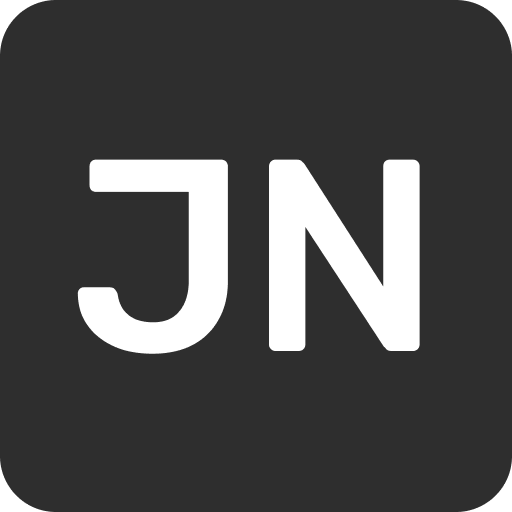
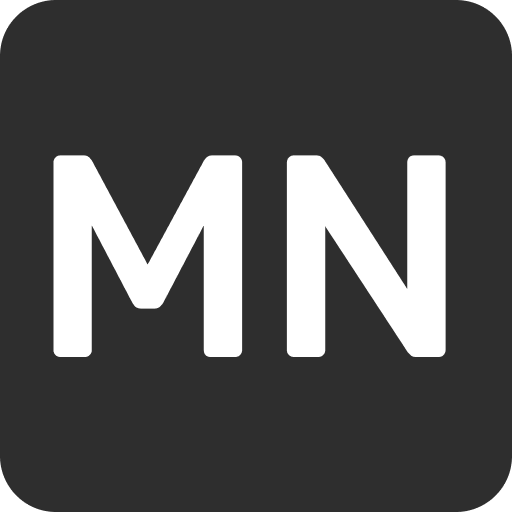
Fix: Change project name

Changed region(s): [[0.0938, 0.2812, 0.5625, 0.7188], [0.5625, 0.2812, 0.875, 0.7188]]

diff --git a/index.html b/index.html
@@ -2,7 +2,7 @@
 <html lang="en">
   <head>
     <meta charset="UTF-8" />
-    <title>Just Notes</title>
+    <title>Min Notes</title>
     <meta name="author" content="ohenrydev" />
     <meta name="description" content="Minimalist notepad app" />
     <meta name="viewport" content="width=device-width, initial-scale=1.0" />
